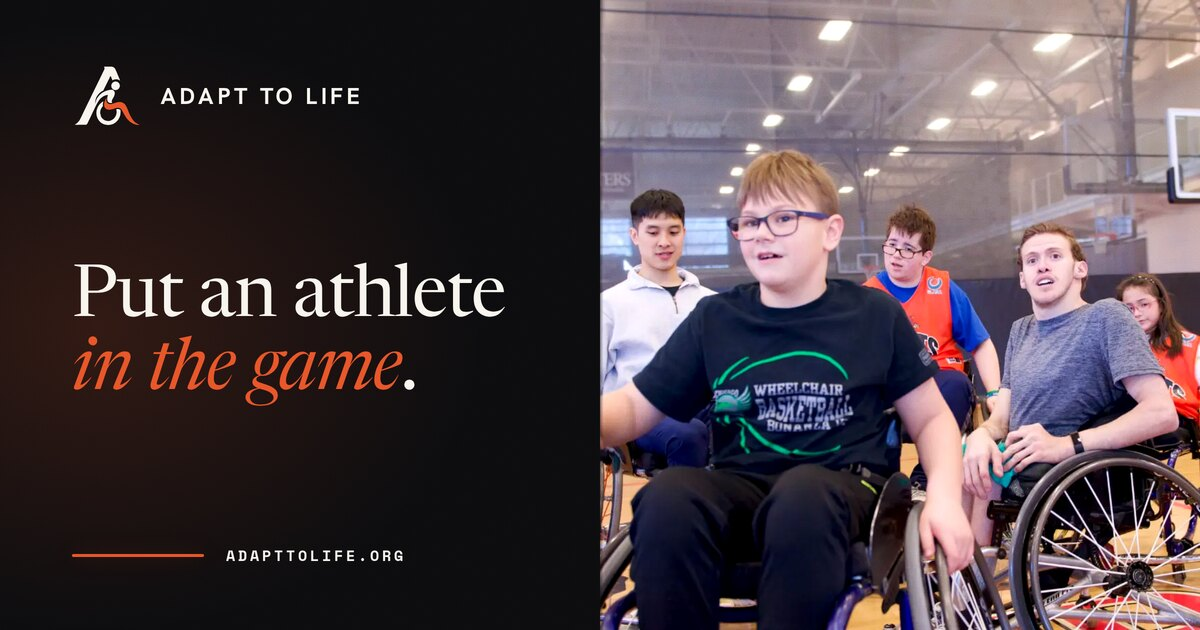
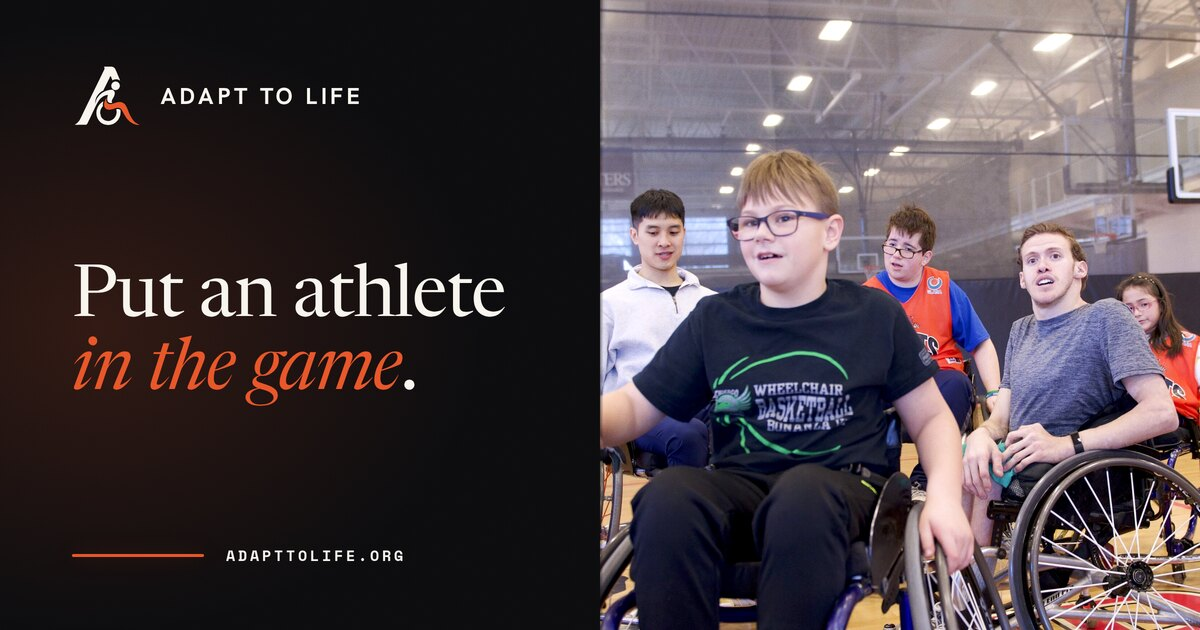
feat(share): cards render from the Drive originals, and cannot upscale
Alec: "Google Drive has better images." He was right, and not in the way I
expected. Drive holds the full-resolution masters of two photographs the site
already uses: Karen's water-ski shot at 3601x2401 against 1600x1067 in public/,
and the gym at 6016x4016 against 2048x1367.

That matters because a card crops far harder than a page does. The photo panel
is 1200 device pixels wide at the 2x render, so every card built from a
web-sized copy was ENLARGING its own source: 1.22x for Karen, 1.63x for Alec's
water shot. Invisible at 1200px, mush on a phone, and not recoverable later.

So there is a fifth gate: a crop may never upscale its source. MAX_UPSCALE is
1.0 rather than a number tuned to let today's files through, and it caught two
of my own mistakes: exporting the masters to 2600px WIDE threw away the height
the crop actually consumes, and Alec's water shot cannot fill this panel at any
crop. Send 6 borrows Karen's shot, which is honest for a page about an adaptive
water-ski event, until JNC02305.JPG arrives. That file is the one thing the
Drive connector will not return, at 6.8MB.

Masters live in assets/photos/, outside the deployed asset directory, so the
visitor downloads nothing extra.

Also, having three cards drawing on two photographs made repetition the new
problem, so each takes a different subject: ways-to-give shows a hoop, because
its headline says "on a court", and hustle-and-heart shows the coach rather than
a third near-identical crop of the same boy.
[…]

diff --git a/public/review.html b/public/review.html
@@ -83,7 +83,9 @@
 
   <p class="rv-minor"><strong>One honest limit.</strong> A crawler needs an absolute URL for the image, so every page points at <code>adapttolife.org</code> rather than at staging. That means if you paste a staging link into a text thread you will see the OLD card, because the new files only exist here until this ships. The cards above are the real files on this host, at the real size, which is as close as the test gets before you say go.</p>
 
-  <p class="rv-minor"><strong>Three checks now run on every deploy.</strong> A headline too small to survive the phone-sized downscale, type overlapping the photograph, or a card over the 300KB budget that WhatsApp silently refuses to preview: each one fails the build. A fourth fails if a card's headline stops matching its page's headline.</p>
+  <p class="rv-minor"><strong>The photographs are the Drive originals now.</strong> The copies on the site are sized for a web page, and a card crops much harder than a page does, so every one of them was being quietly enlarged. Karen's shot went from 1600 to 3601 pixels wide and the gym shot from 2048 to 6016, which is the difference between soft and sharp on a phone. The masters live outside the deployed folder, so visitors download nothing extra. One is still pending: your own water-ski shot exists only as a web-sized copy here, so Send 6 borrows Karen's until the original lands.</p>
+
+  <p class="rv-minor"><strong>Five checks now run on every deploy.</strong> A headline too small to survive the phone-sized downscale, type overlapping the photograph, a card over the 300KB budget that WhatsApp silently refuses to preview, a headline that stops matching its page's headline, or a crop that would enlarge its own source: each one fails the build.</p>
 
   <div class="rv-start"><a class="btn" href="/">Start the walk <span class="arrow">&rarr;</span></a></div>
 </div>

diff --git a/public/ways-to-give.html b/public/ways-to-give.html
@@ -16,13 +16,13 @@
 <meta property="og:image" content="https://adapttolife.org/images/og/ways-to-give.jpg">
 <meta property="og:image:width" content="1200">
 <meta property="og:image:height" content="630">
-<meta property="og:image:alt" content="Every road here ends on a court. An adaptive water-skier carving through the spray.">
+<meta property="og:image:alt" content="Every road here ends on a court. Young wheelchair basketball players, the hoop behind them.">
 <meta property="og:url" content="https://adapttolife.org/ways-to-give">
 <meta name="twitter:card" content="summary_large_image">
 <meta name="twitter:title" content="Ways to Give | Adapt To Life">
 <meta name="twitter:description" content="Back an athlete the way that fits you.">
 <meta name="twitter:image" content="https://adapttolife.org/images/og/ways-to-give.jpg">
-<meta name="twitter:image:alt" content="Every road here ends on a court. An adaptive water-skier carving through the spray.">
+<meta name="twitter:image:alt" content="Every road here ends on a court. Young wheelchair basketball players, the hoop behind them.">
 <link rel="preconnect" href="https://fonts.googleapis.com">
 <link rel="preconnect" href="https://fonts.gstatic.com" crossorigin>
 <link href="https://fonts.googleapis.com/css2?family=Newsreader:ital,opsz,wght@0,6..72,400;0,6..72,500;0,6..72,600;1,6..72,400;1,6..72,500&family=Hanken+Grotesk:wght@400;500;600;700&family=Space+Mono:wght@400;700&display=swap" rel="stylesheet">

diff --git a/public/send-6.html b/public/send-6.html
@@ -16,13 +16,13 @@
 <meta property="og:image" content="https://adapttolife.org/images/og/send-6.jpg">
 <meta property="og:image:width" content="1200">
 <meta property="og:image:height" content="630">
-<meta property="og:image:alt" content="Send 6 to the US Open. An adaptive water-skier on the tow rope, mid-run.">
+<meta property="og:image:alt" content="Send 6 to the US Open. An adaptive water-skier mid-run, skis throwing spray.">
 <meta property="og:url" content="https://adapttolife.org/send-6">
 <meta name="twitter:card" content="summary_large_image">
 <meta name="twitter:title" content="Send 6 to the US Open | Adapt To Life">
 <meta name="twitter:description" content="Six adaptive athletes in Naples, nothing out of pocket.">
 <meta name="twitter:image" content="https://adapttolife.org/images/og/send-6.jpg">
-<meta name="twitter:image:alt" content="Send 6 to the US Open. An adaptive water-skier on the tow rope, mid-run.">
+<meta name="twitter:image:alt" content="Send 6 to the US Open. An adaptive water-skier mid-run, skis throwing spray.">
 <link rel="preconnect" href="https://fonts.googleapis.com">
 <link rel="preconnect" href="https://fonts.gstatic.com" crossorigin>
 <link href="https://fonts.googleapis.com/css2?family=Newsreader:ital,opsz,wght@0,6..72,400;0,6..72,500;0,6..72,600;1,6..72,400;1,6..72,500&family=Hanken+Grotesk:wght@400;500;600;700&family=Space+Mono:wght@400;700&display=swap" rel="stylesheet">
